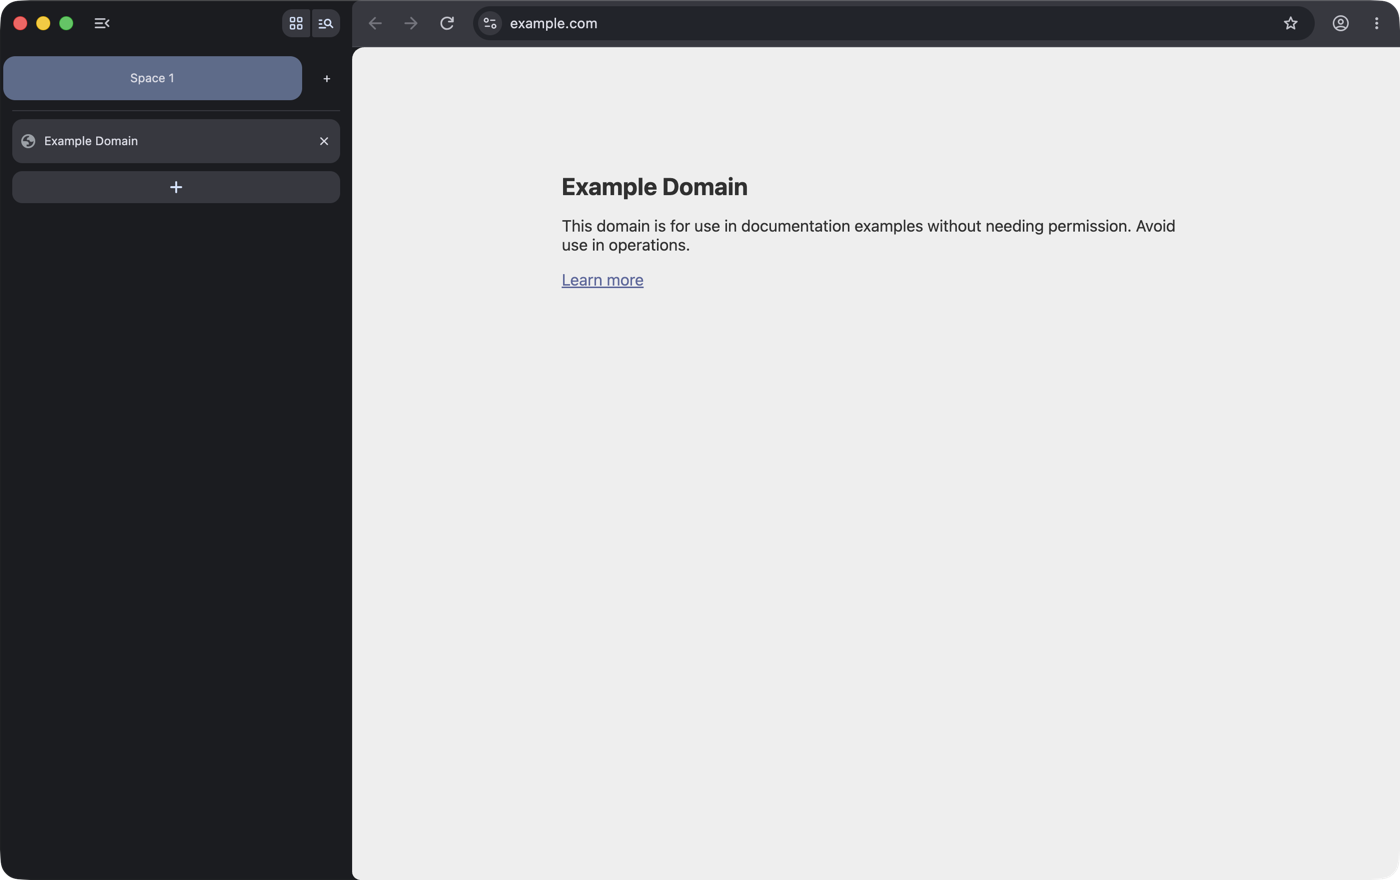
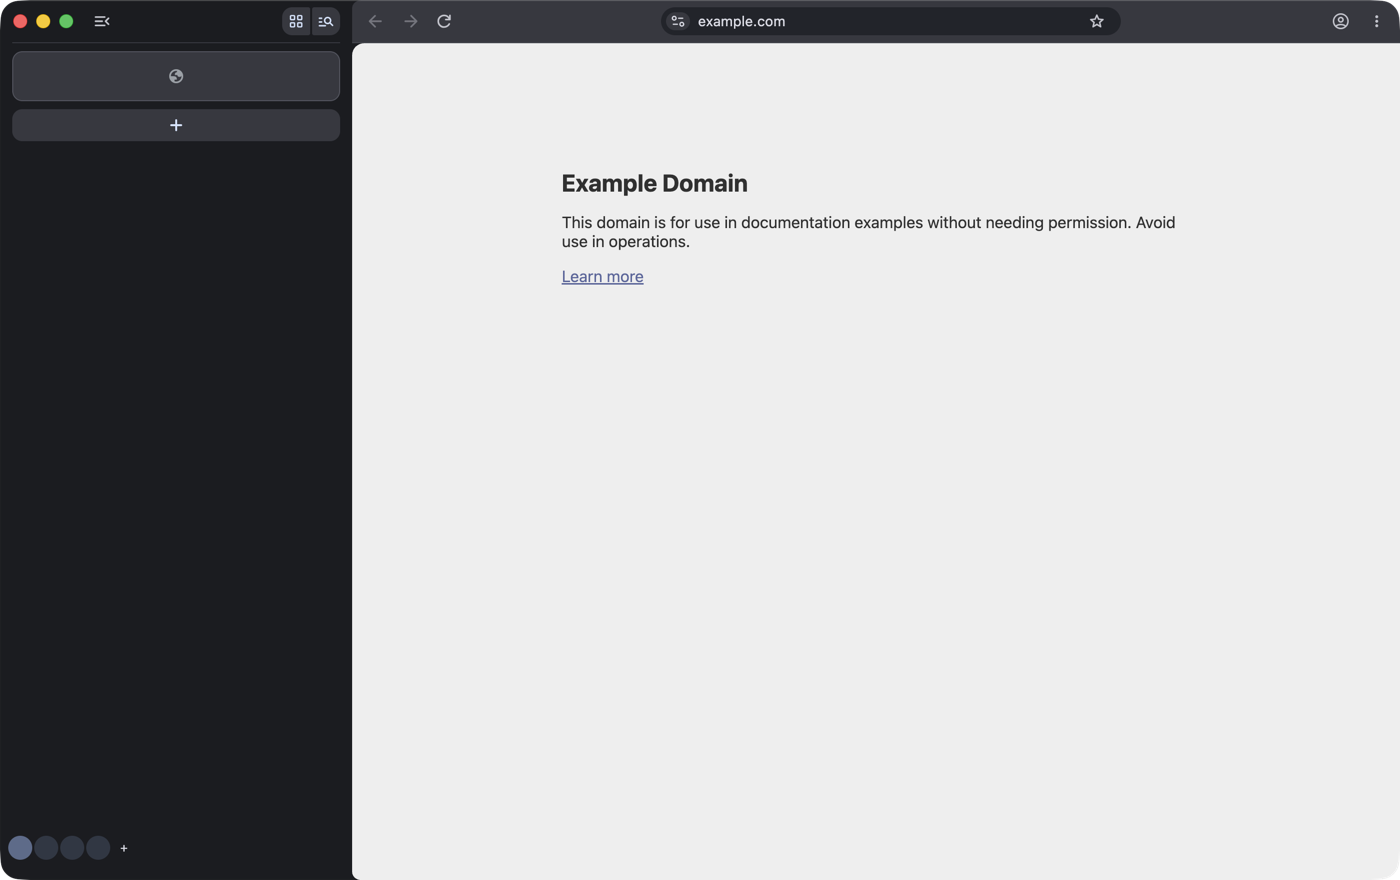
ui: thin toolbar, centred URL (patch 0015)
The strip is 43 DIP rather than 46, and the URL sits at 890 in a window whose
content centre is 876.

Two findings worth keeping. The toolbar's height floor is the back button, not
the location bar, so lowering the location bar alone moved nothing. And
SetPreferredSize() cannot cap the location bar's width, because FlexLayout asks
for the preferred size that fits given bounds and that goes to LocationBarView's
own calculation; a flex rule does cap it.

docs/UI-SPEC.md previously recorded the centred URL as deliberately deferred,
because toolbar_view.cc takes 205 commits a year. That reasoning was applied to
the file rather than to the size of the change, which is a property on an
existing child plus two empty views. The file now says so.

All 15 SpaceModelTest tests still pass.

Changed region(s): [[0.0, 0.0, 1.0, 0.2455], [0.3993, 0.1841, 0.86, 0.3375], [0.0, 0.9511, 0.0921, 0.9818]]

diff --git a/docs/UI-SPEC.md b/docs/UI-SPEC.md
@@ -131,7 +131,7 @@ Measured against the table above, not against "looks closer".
 | Favicon size | **Deliberately not done.** 16 px, not 18. `gfx::kFaviconSize` is global and the image would not scale with the slot |
 | Bare-host URL | Done — unfocused only; the full URL returns on focus. Verified in the capture |
 | Sign-in promo pill | Removed — Chromium advertises Google sign-in in the toolbar by default |
-| Centred URL | **Deferred, on purpose** — see below |
+| Centred URL | **Done** — capped by a flex rule, spacers either side; measured centre 890 against a content centre of 876 (patch 0015) |
 | Space switcher | **Done** — a row of icons at the **bottom** of the sidebar, active one full strength, plus a button that makes a new Space (patches 0011, 0013). The first attempt put named pills at the top, which was wrong |
 | Essentials row | **Done** — pinned tabs are exempt from the Space filter, so they sit above all Spaces, and their tiles are 50 DIP tall so they read as cards (patch 0014) |
 | Window background tinted per space | Not started — now unblocked by the same patches. `Widget::SetUserColorOverride` is the hook |
@@ -141,7 +141,7 @@ Measured against the table above, not against "looks closer".
 Honest list of what a side-by-side still shows, after the sidebar structure was
 corrected:
 
-- The toolbar is Chromium's, not a thin strip, and the URL is not centred.
+- The toolbar is 43 DIP, down from 46, but not as thin as the reference; the back button's own preferred size floors it.
 - ⌘T focuses the omnibox; it does not open the command bar overlay.
 - Hovering a Space icon shows a tooltip, not the raised name pill.
 - A Space's icon can be set in the model but there is no UI to set it.
@@ -159,20 +159,17 @@ The way round it is a parameter on our own code — `pin_tabs` — which pins th
 first N tabs once the window has them. That defeats nothing; it is the same
 trade as `extra_spaces` and the tunable metrics.
 
-## Why the centred URL is deferred
+## The centred URL was deferred, wrongly
 
-Everything else in the table was reachable either through a subclass or by
-moving a default. Centring the URL is not: it needs two flexible spacer views
-either side of the location bar and a changed flex rule, and `InitLayout()` is
-private and non-virtual, so it cannot be done from a subclass.
+This file previously argued the centred URL was not worth doing: it needed
+spacers around the location bar, `InitLayout()` is private and non-virtual so no
+subclass could reach it, and `toolbar_view.cc` takes 205 commits a year.
 
-That means editing `toolbar_view.cc` — 2,010 lines and **205 commits a year**,
-the most-churned file this project would touch. `ARCHITECTURE.md` asks for a
-minimal patch series that rebases cheaply, and this would be the single most
-expensive patch in it, bought for the least visible of the four differences.
-
-It is deferred until either the toolbar grows a seam we can subclass, or the
-rest of the sidebar is done and this is genuinely the last thing left.
+The premise was right and the conclusion was wrong. It is not a rewrite of the
+layout: it is a flex rule on a child that is already there, plus two empty
+views. Recorded because the reasoning -- "this file is expensive, therefore do
+not touch it" -- is worth applying to the size of the change rather than to the
+file.
 
 ## Known gaps
 
